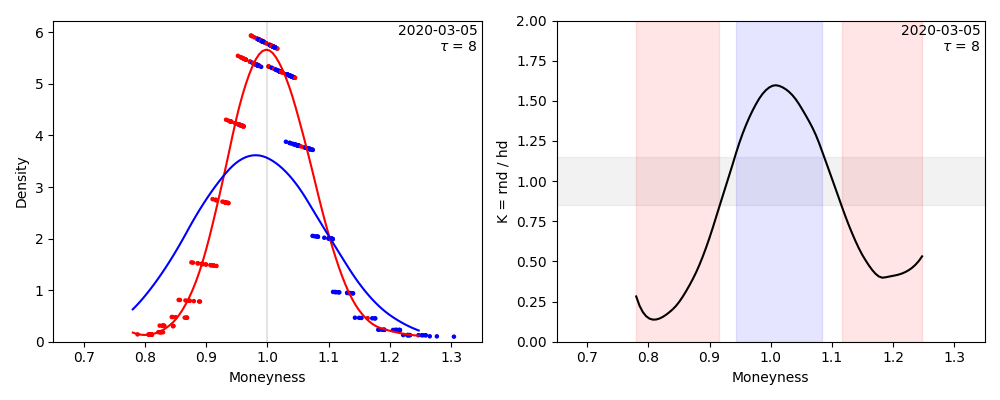
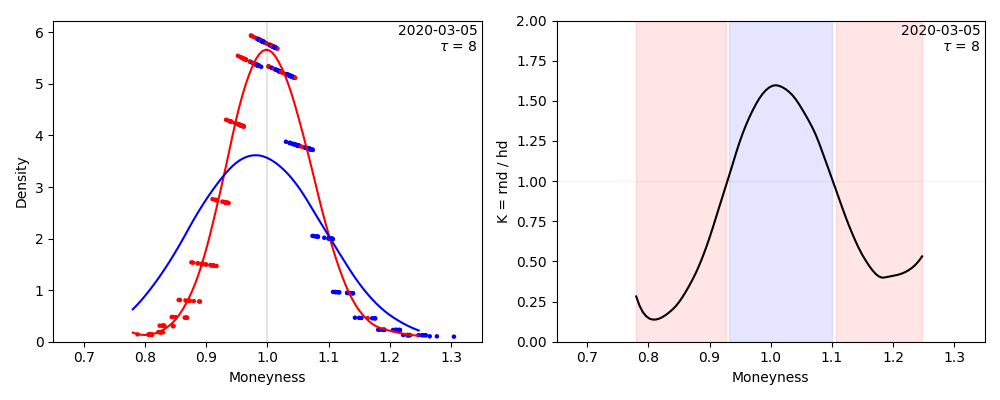
version 0.1.1

diff --git a/examples/example_calculate_kernel.py b/examples/example_calculate_kernel.py
@@ -45,9 +45,7 @@ HD = hd.Calculator(
 HD.get_hd(variate_GARCH_parameters=True)
 
 # ----------------------------------------------------------------------- KERNEL
-Kernel = ker.Calculator(
-    tau_day=evaluation_tau, date=evaluation_day, RND=RND, HD=HD, similarity_threshold=0.15, cut_tail_percent=0.02
-)
+Kernel = ker.Calculator(tau_day=evaluation_tau, date=evaluation_day, RND=RND, HD=HD, cut_tail_percent=0.02)
 Kernel.calc_kernel()
 Kernel.calc_trading_intervals()
 

diff --git a/spd_trading/kernel.py b/spd_trading/kernel.py
@@ -28,7 +28,7 @@ class Calculator:
         trading_intervals (dict of list of tuples): M-intervals for which to buy and sell options according to kernel
     """
 
-    def __init__(self, tau_day, date, RND, HD, similarity_threshold=0.15, cut_tail_percent=0.02):
+    def __init__(self, tau_day, date, RND, HD, similarity_threshold=0, cut_tail_percent=0.02):
         self.tau_day = tau_day
         self.date = date
         self.RND = RND

diff --git a/docs/conf.py b/docs/conf.py
@@ -17,7 +17,7 @@ import shutil
 # which is published on read the docs: https://spd_trading.readthedocs.io/en/latest/
 # release = get_distribution("spd_trading").version
 # version = ".".join(release.split(".")[:2])
-version = "0.1.0"
+version = "0.1.1"
 
 __location__ = os.path.join(os.getcwd(), os.path.dirname(inspect.getfile(inspect.currentframe())))
 

diff --git a/setup.py b/setup.py
@@ -9,7 +9,7 @@ README = (HERE / "README.md").read_text()
 
 setup(
     name="spd_trading",
-    version="0.1.0",
+    version="0.1.1",
     url="https://github.com/franwe/spd_trading",
     project_urls={
         "Documentation": "https://spd_trading.readthedocs.io/en/latest/",

diff --git a/docs/text/examples.rst b/docs/text/examples.rst
@@ -96,8 +96,7 @@ Set the logging level to `INFO` if status reports are of interest. ::
         tau_day=evaluation_tau, 
         date=evaluation_day, 
         RND=RND, 
-        HD=HD, 
-        similarity_threshold=0.15, 
+        HD=HD,  
         cut_tail_percent=0.02
     )
     Kernel.calc_kernel()
